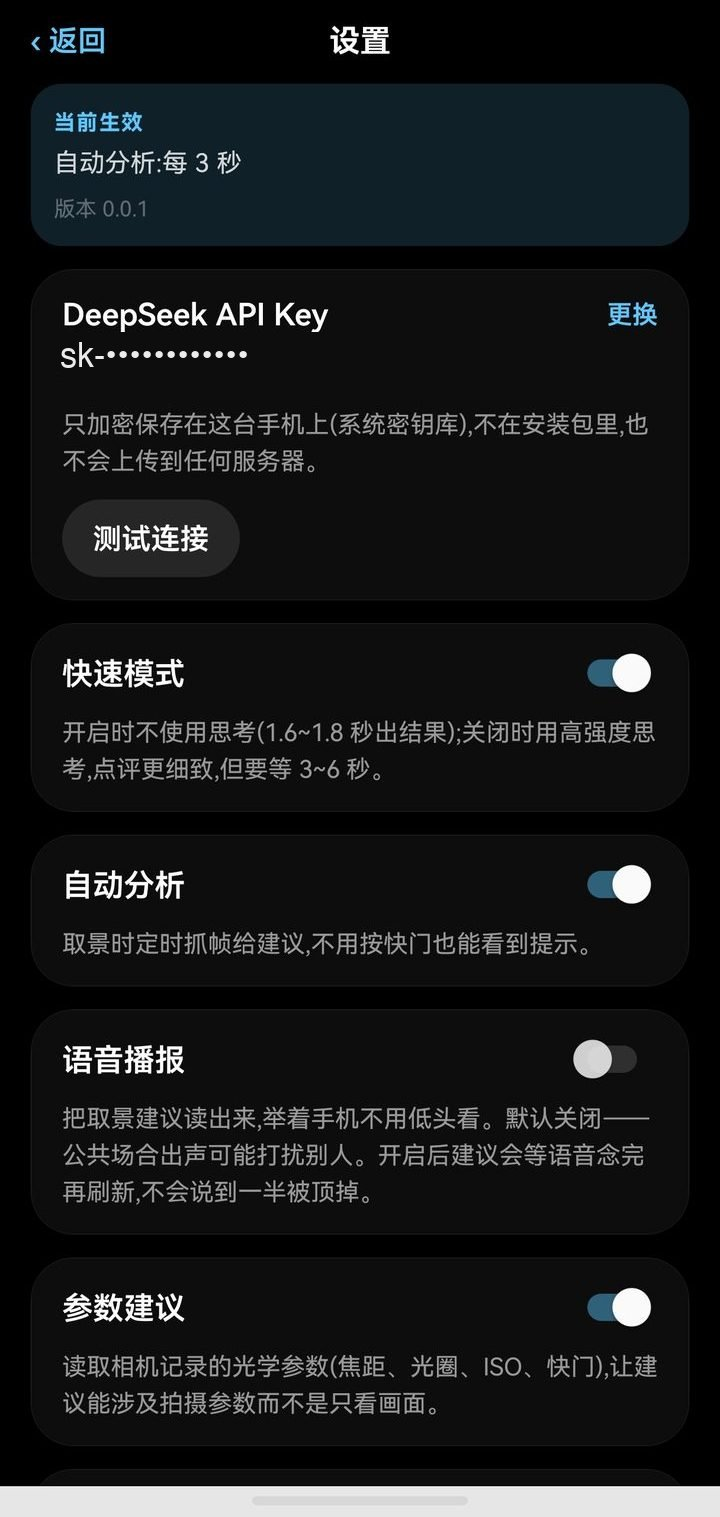
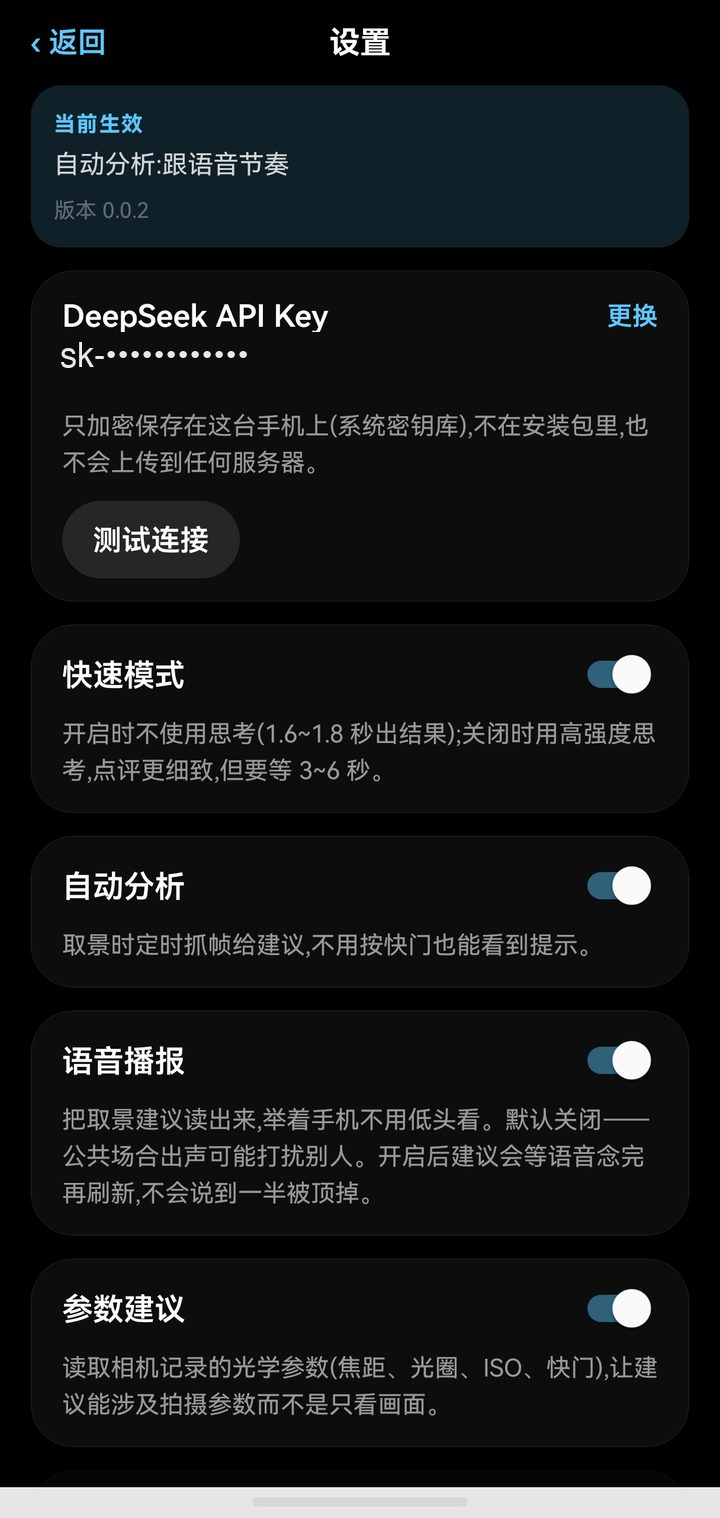
docs: 补齐 5 张界面截图(取景/点评/严格评审/历史/设置),替换根目录原图

diff --git a/README.en.md b/README.en.md
@@ -17,13 +17,21 @@ camera settings with one tap**.
 - Android only. iOS untested, HarmonyOS NEXT unsupported
 
 <p align="center">
-  <img src="docs/screenshots/review.jpg" width="240" alt="Post-shot review: score, what worked, improvements, one-tap settings" />
-  &nbsp;&nbsp;
-  <img src="docs/screenshots/settings.jpg" width="240" alt="Settings: API key, fast mode, auto analysis, voice guide" />
+  <img src="docs/screenshots/main.jpg" width="230" alt="Camera screen: live suggestion, rule-of-thirds grid, level, zoom factor" />
+  &nbsp;
+  <img src="docs/screenshots/review.jpg" width="230" alt="Post-shot review: score, what worked, improvements, one-tap settings" />
+  &nbsp;
+  <img src="docs/screenshots/review-strict.jpg" width="230" alt="Strict review: 42 points with three concrete fixes" />
 </p>
 
 <p align="center">
-  <sub>Left: post-shot review &nbsp;·&nbsp; Right: settings</sub>
+  <img src="docs/screenshots/history.jpg" width="230" alt="Photo history: average score, 7-day trend, verdict split, weakest dimension" />
+  &nbsp;
+  <img src="docs/screenshots/settings.jpg" width="230" alt="Settings: API key, fast mode, auto analysis, voice guide" />
+</p>
+
+<p align="center">
+  <sub>Camera → review → strict review · growth stats · settings</sub>
 </p>
 
 ## What it does

diff --git a/README.md b/README.md
@@ -18,6 +18,24 @@
 - 发现安全问题请走私密通道,见 [SECURITY.md](./SECURITY.md)
 - 发版流程见 [RELEASING.md](./RELEASING.md)
 
+<p align="center">
+  <img src="docs/screenshots/main.jpg" width="230" alt="取景页:实时建议、三分线、水平仪、变焦倍率" />
+  &nbsp;
+  <img src="docs/screenshots/review.jpg" width="230" alt="拍后点评:评分、做得好的地方、改进项、可一键应用的参数" />
+  &nbsp;
+  <img src="docs/screenshots/review-strict.jpg" width="230" alt="严格评审:42 分,给出 3 条具体改进" />
+</p>
+
+<p align="center">
+  <img src="docs/screenshots/history.jpg" width="230" alt="拍照历史:平均分、7 天趋势、结论分布、最常需要改的维度" />
+  &nbsp;
+  <img src="docs/screenshots/settings.jpg" width="230" alt="设置:API Key、快速模式、自动分析、语音播报" />
+</p>
+
+<p align="center">
+  <sub>取景 → 点评 → 复盘 · 严格评审 · 成长统计 · 设置</sub>
+</p>
+
 ---
 
 ## 现在能做什么
